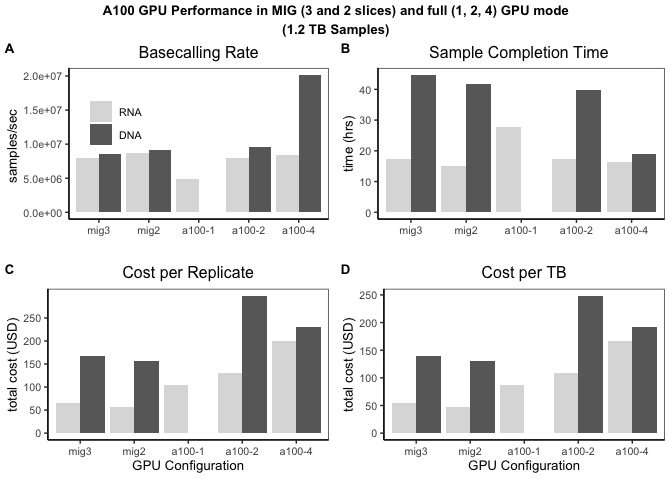
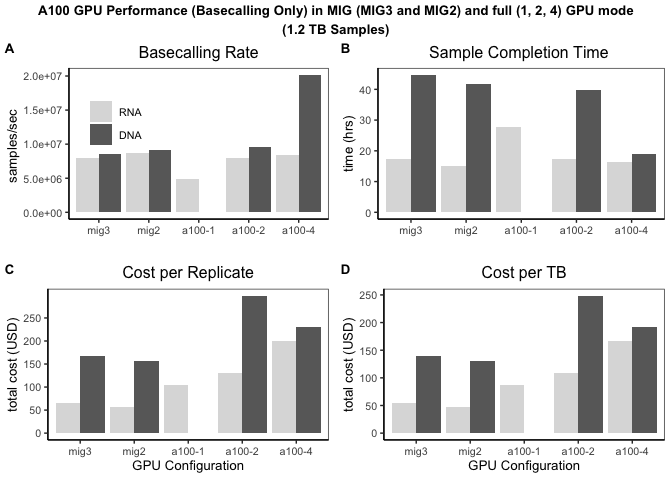
Added Guppy Benchmarking Figures

Changed region(s): [[0.0625, 0.0, 0.9375, 0.0312]]

diff --git a/README.md b/README.md
@@ -11,19 +11,55 @@ With this research, we will build a public resource consisting of long-read geno
 
 ## Guppy Analysis
 
-**TL/DR:** MIG2 mode optimized on GCP with persistent use discount is
-roughly **$47.25 ** for average RNA samples at **1.2 TB** and
-**$130.73** for average DNA samples at **1.2 TB**.
+**TL/DR:**
+
+-   Guppy6.1.2 **basecalling+BAM** in MIG2 mode **(using SUP model)** on
+    GCP with persistent use discount for 10 RNA and 97 DNA samples cost
+    a total of **$34290.86**. Please see Figure 3 for detailed
+    calculations.
+-   Guppy6.1.2 **basecalling** in MIG2 mode **(using SUP model)** on GCP
+    with persistent use discount is roughly **$47.25 ** for average RNA
+    samples at **1.2 TB** and **$130.73** for average DNA samples at
+    **1.2 TB**.
+-   **Methylation** (5mC) calling (using Guppy basecalled fastq file)
+    with **minimap2** based alignment costs **$52.25** for average RNA
+    samples at **1.2 TB** and **$145.73** for average DNA samples at
+    **1.2 TB**.
 
 ## Introdunction
 
-Here we present the benchamrking results for guppy basecaller on A100
-GPUs. We benchmarked guppy on a single A100 GPU in multi-instance GPU
-(MIG) mode as well as on 1, 2 and 4 A100 GPU’s in full mode. All our
-estimates are with persistent use mode (30% reduced cost) on GCP.
-Following table shows general specification of A100 (we have used the
-only available (upto our knowledge) A100, 40 GB SMX, 108 streaming
-multiprocessors (SMs) and a toal of 6912 cuda cores).
+A100 GPU on google cloud platform (GCP) can be used in **full** as well
+as in multi-instance GPU **(MIG)** mode. Here we compare our results for
+guppy **basecalling** on 1, 2 and 4 A100 GPUs in **full** mode with
+those obtained from single A100 in **MIG** mode. We also compare our
+results on **methylation-calling** using guppy, minimap2 and nanopolish.
+
+### A100 in MIG mode
+
+Single A100 GPU (40 GB) can be configured in 5 different MIG modes for
+best performance (Table 1). We have tested A100 in 7 (MIG7), 3 (MIG3)
+and 2 (MIG2) GPU instances as well as 1, 2 and 4 A100 GPUs in full mode
+for RNA and DNA samples.
+
+![Table 1. A100 MIG Configurations](A100MIG.jpg)
+
+Source
+<https://docs.nvidia.com/datacenter/tesla/mig-user-guide/#:~:text=The%20new%20Multi%2DInstance%20GPU,resources%20for%20optimal%20GPU%20utilization.>
+
+### A100 configuration and cost (persistent discount) on GCP
+
+Below table show general specification of A100 available on GCP (40 GB
+SMX, 108 streaming multiprocessors (SMs) and a toal of 6912 cuda cores)
+with cost/hr **(persistent use discount 30% reduced cost)** for each
+configuration. In all our calculations we have used A100 with 4TB of
+ssd.
+
+> Please note that Guppy base caller crashes if run on data from gbucket
+> (due to disk latency issues), all these tests were done by attaching a
+> 4TB persistent SSD disk with a2-highgpu-1g VM (default VM for A100
+> GPU). To run more than one samples simultaneously (say 3 with 3
+> multi-instances, we need \~ 7TB of persistent disk as some samples are
+> \> 3 TB)
 
 
     ------------------------------------------------------------------------------------
@@ -38,7 +74,7 @@ multiprocessors (SMs) and a toal of 6912 cuda cores).
      A100-MIG3    10GB    1792    28       64       -      $3.75     12     85GB   4TB  
     ------------------------------------------------------------------------------------
 
-Table 1. A100 (in full and MIG MODE) configurations. Rows 1-2. A100 in
+Table 2. A100 (in full and MIG MODE) configurations. Rows 1-2. A100 in
 **full** mode with 10GB default and 4TB Persistent disk respectively.
 Rows 3-4. A100 in MIG2 and MIG3 modes used for current benchmarking.
 
@@ -47,45 +83,13 @@ For more details on A100 GPU, see
 
 <https://www.nvidia.com/content/dam/en-zz/Solutions/Data-Center/a100/pdf/nvidia-a100-datasheet-us-nvidia-1758950-r4-web.pdf>
 
-> Please note that Guppy base caller crashes if run on data from gbucket
-> (due to disk latency issues), all these tests were done by attaching a
-> 4TB persistent SSD disk with a2-highgpu-1g VM (default VM for A100
-> GPU). To run more than one samples simultaneously (say 3 with 3
-> multi-instances, we need \~ 7TB of persistent disk as some samples are
-> \> 3 TB)
+### Guppy base- and methylation-calling on A100 GPUs
 
-### A100 in MIG mode
+#### Guppy basecalling
 
-Single A100 GPU (40 GB) can be configured in 5 different GPU instances
-(MIG) for best performance (see Table below). We have tested A100 in 7,
-3 and 2 GPU instances both for RNA and DNA samples. **Results for MIG7
-mode are slower than MIG3 and MIG2 modes and hence are not reported
-here.**
-
-![Table 2. A100 MIG Configurations](A100MIG.jpg)
-
-Source
-<https://docs.nvidia.com/datacenter/tesla/mig-user-guide/#:~:text=The%20new%20Multi%2DInstance%20GPU,resources%20for%20optimal%20GPU%20utilization.>
-
-## Summary
-
-A100 GPU in MIG mode is **almost 0.54** time cheaper than that of single
-A100 in Full mode for RNA samples. In the case of DNA samples, MIG mode
-is **almost 0.68** times cheaper than that of 4 A100 GPUs.
-
-## A100 Performance
-
-We benchmarked guppy base caller in 3 different MIG modes on a single
-A100 GPU as well as single guppy base caller was run on 1, 2 and 4 A100
-GPUs to identify best A100 utilization. See Figure 1 & 2 for details.
-
-> Results for MIG7 mode are slower than MIG3 and MIG2 mode and hence are
-> not reported here.
-
-#### Results
-
-Here we discuss our results for both RNA and DNA samples in MIG and full
-mode.
+Results for guppy basecalling in MIG (MIG2 and MIG3) mode on a single
+A100 GPU as well as on 1 (A100-1), 2 (A100-2) and 4 (A100-4) A100 GPUs
+are shown in Figure 1 & 2 for an RNA and DNA sample (each of 1.2 TB) .
 
 > Please note that in MIG2 mode, an RNA and DNA sample was split into 2
 > different folders (equal number of FASTA5 files) and 2 guppy
@@ -93,25 +97,22 @@ mode.
 > rates (Figure 1A) in mig modes are shown as sum of rates for all
 > instances and total time (Figure 1B) is the average of all instances.
 
-All results in Figure 1 & 2 are based on a sample size of 1.2 TB for
-both RNA and DNA samples.
+As can be seen from Figure 1A, guppy basecalling rate in MIG2 mode is
+**\~2X** faster than in single A100 in full mode and gave comparable
+performance on 2 A100 GPUs in full mode for both RNA and DNA samples.
+Furthermore, total base calling completion time for both RNA and DNA
+samples in MIG2 mode is compareable to that on 2 A100 GPUs in full mode
+(Figure 1B).
+
+> Results for MIG7 mode are slower than MIG3 and MIG2 mode and hence are
+> not reported here.
 
 > Please note that calculations for DNA in full A100 mode (A100-1) were
 > not completed (due to long run time, we terminated the job).
 
-Figure 1A shows guppy base calling rate for a single A100 in MIG3 and
-MIG2 modes as well as A100 in full mode with guppy running on 1
-(A100-1), 2 (A100-2) and 4 (A100-4) A100 GPUs for a single RNA/DNA
-sample. As can be seen from Figure 1A, guppy basecalling rate in MIG2
-mode is **\~2X** faster than in single A100 in full mode and gave
-comparable performance on 2 A100 GPUs in full mode for both RNA and DNA
-samples. Furthermore, total base calling completion time for both RNA
-and DNA samples in MIG2 mode is compareable to that on 2 A100 GPUs in
-full mode (Figure 1B).
-
 ![](A100Benchmarks2_files/figure-markdown_github/unnamed-chunk-5-1.png)
 
-Figure 1. A100 GPU Perfomance in MIG and full mode.
+Figure 1. Guppy basecalling on A100 GPU in MIG and full mode.
 
 Consequently, total cost for RNA and DNA replicates is **\~ 1/2** in
 MIG2 mode than on 2 A100 GPUs in full mode (Figure 1C). Figure 1D gave
@@ -130,14 +131,80 @@ estimate for cost per TB for both DNA and RNA samples.
 > be submit two parallel jobs, one on each MIG machine to maximimize
 > A100 utilization.
 
+In summary, A100 GPU in MIG mode is **almost 0.54** time cheaper than
+that of single A100 in Full mode for RNA samples. In the case of DNA
+samples, MIG mode is **almost 0.68** times cheaper than that of 4 A100
+GPUs.
+
+#### Guppy Basecalling + Alignment (methylation-calling)
+
+Following our optimized setting for guppy basecalling on A100 GPU in
+MIG2 mode, we tested guppy on A100 GPU in MIG2 mode (Figure 2) for
+basecalling and alignment to hg38 reference fasta. Guppy basecalling +
+alignment in MIG2 mode is **almost 2.56 more costly** for RNA sample
+where as for DNA sample it is **1.7 more costly** than basecalling
+alone.
+
+Guppy generated **modified-base bam** file was processed to aggregate
+5mC bases in bedmethyle bed file using modbam2bed script
+<https://github.com/epi2me-labs/modbam2bed> on a 16 vCPUs, 64 GB RAM and
+3TB SSD VM. This step costs **\~$3** for RNA sample and **\~$6** for DNA
+sample.
+
+> For methylation calling, overall this pipeline costs **$147.9** for
+> RNA sample and **$272.18** for DNA sample.
+
+![](A100Benchmarks2_files/figure-markdown_github/unnamed-chunk-6-1.png)
+
+Figure 2. Guppy basecalling and alignment on A100 GPU in MIG2 mode.
+
+### Guppy basecalling on A100 GPUs followed by methylation-calling using minimap2 on 16 vCPUs, 64 GB RAM and 3TB SSD VM
+
+Next we used guppy basecalled fastq file (for passed reads) to generate
+(modified-base) BAM file using minimap2 and process resulting BAM file
+using modbam2bed script (see above). For methylation calling, this
+pipeline incurs, in addition to guppy basecalling cost (Figure 1), an
+additional **\~$5** for RNA and **\~$15** for DNA sample.
+
+> For methylation calling, overall this pipeline costs **$61.7** for RNA
+> sample and **$171.88** for DNA sample.
+
+### Guppy basecalling on A100 GPUs followed by methylation-calling using minimap2 and nanopolish on 16 vCPUs, 64 GB RAM and 3TB SSD VM
+
+Another option we tested on guppy basecalled fastq file (for passed
+reads) to generate (modified-base) BAM file using minimap2 followed by
+nanopolish for methylation calling. This pipeline incurs, in addition to
+guppy basecalling cost (Figure 1), an additional **\~$51** for RNA and
+**\~$62** for DNA sample.
+
+> For methylation calling, overall this pipeline costs **$107.7** for
+> RNA sample and **$218.88** for DNA sample.
+
+### Guppy Basecalling+BAM Cost Prediction for RNA and DNA samples
+
+Based on Guppy6.1.2 in MIG2 mode for Basecalling+BAM calculations, we
+calculated total estimates for 10 RNA and 97 DNA samples.
+
+For 10 RNA samples, total estimates is **$1805.99** and for 97 DNA
+samples, it is **$32484.87**.
+
+Figure 3 shows cost estimate breakdown for each of the RNA and DNA
+samples.
+
+![](A100Benchmarks2_files/figure-markdown_github/unnamed-chunk-7-1.png)
+
+Figure 3. A) RNA and B) DNA samples cost analysis for A100 GPU in MIG2
+mode
+
 ### Cost Prediction for RNA and DNA samples
 
-Next, based on above estimates, we have calculated cost per sample for
-each RNA and DNA sample in various A100 GPU configurations.
+Next, based on above estimates (for guppy basecalling), we have
+calculated cost per sample for each RNA and DNA sample in various A100
+GPU configurations.
 
 #### RNA Samples cost analysis
 
-Figure 2 and Table 1 presents cost estimation for 10 RNA samples. As
+Figure 4 and Table 3 presents cost estimation for 10 RNA samples. As
 seen in Table 1 and Figure 3, cost estimate for each RNA sample is **\~
 1/2** in MIG2 mode than in the case of single A100 in full mode.
 
@@ -183,16 +250,16 @@ a100-1
 </tbody>
 </table>
 
-Table 1. Total cost for 10 RNA samples
+Table 3. Total cost for 10 RNA samples
 
-![](A100Benchmarks2_files/figure-markdown_github/unnamed-chunk-7-1.png)
+![](A100Benchmarks2_files/figure-markdown_github/unnamed-chunk-9-1.png)
 
-Figure 2. RNA samples cost analysis. A) RNA samples sizes, B) Price
+Figure 4. RNA samples cost analysis. A) RNA samples sizes, B) Price
 comparison between MIG2 and single A100 in full mode.
 
 #### DNA Samples cost analysis
 
-Figure 3 and Table 2 show cost analysis for 97 DNA samples. In the case
+Figure 5 and Table 4 show cost analysis for 97 DNA samples. In the case
 of DNA samples, MIG2 mode is the cheapest mode among MIG2, 2 A100 and 4
 A100 GPUs with A100-2 being almost **\~2X** as expensive as MIG2 mode.
 
@@ -238,13 +305,12 @@ A100-4
 </tbody>
 </table>
 
-Table 2. Total cost for 97 DNA samples
+Table 4. Total cost for 97 DNA samples
 
-![](A100Benchmarks2_files/figure-markdown_github/unnamed-chunk-9-1.png)
+![](A100Benchmarks2_files/figure-markdown_github/unnamed-chunk-11-1.png)
 
-Figure 3. DNA samples cost analysis. A) DNA sample sizes, B) Price
+Figure 5. DNA samples cost analysis. A) DNA sample sizes, B) Price
 comparison between MIG2, 2 A100 and 4 A100 GPUs in full mode.
-
 
 ## Publications
 
